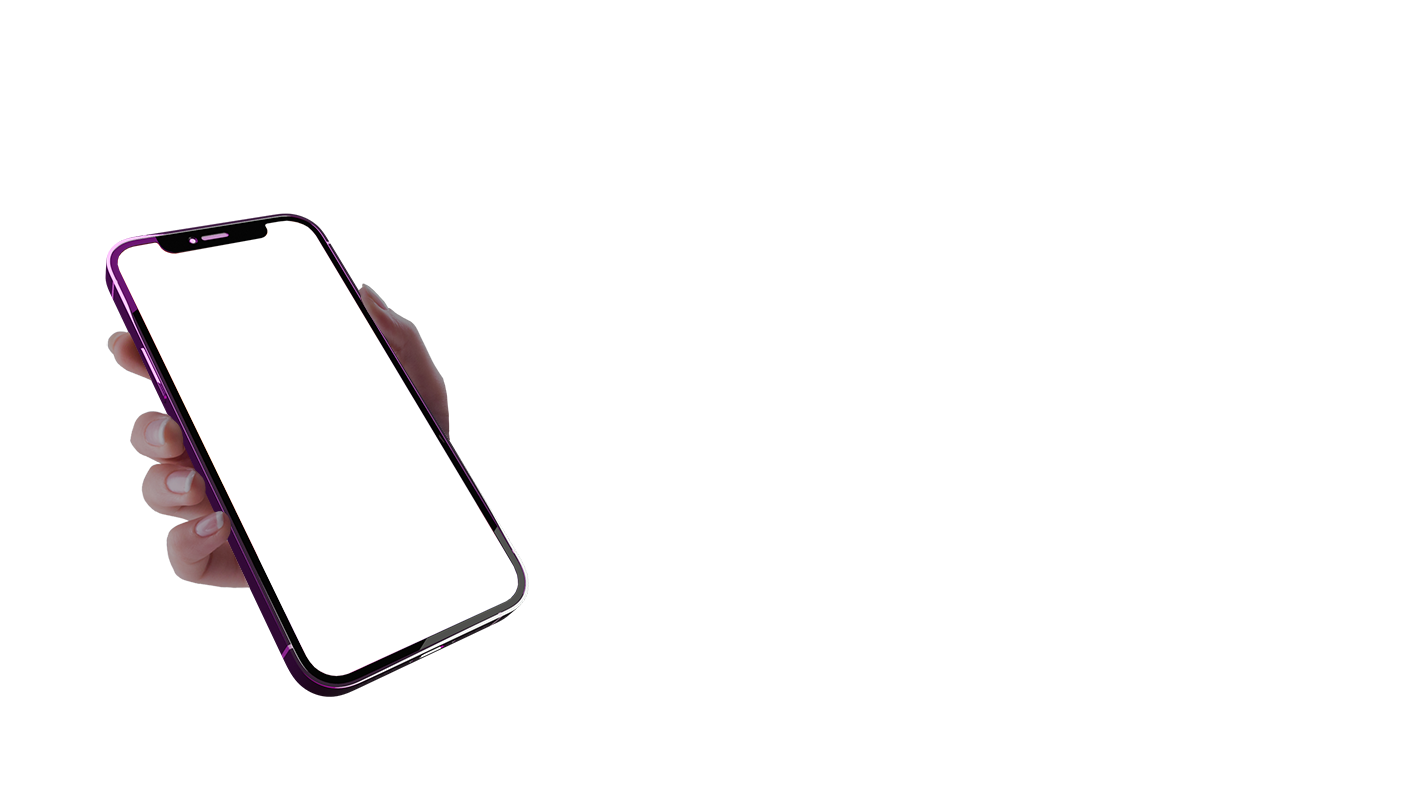
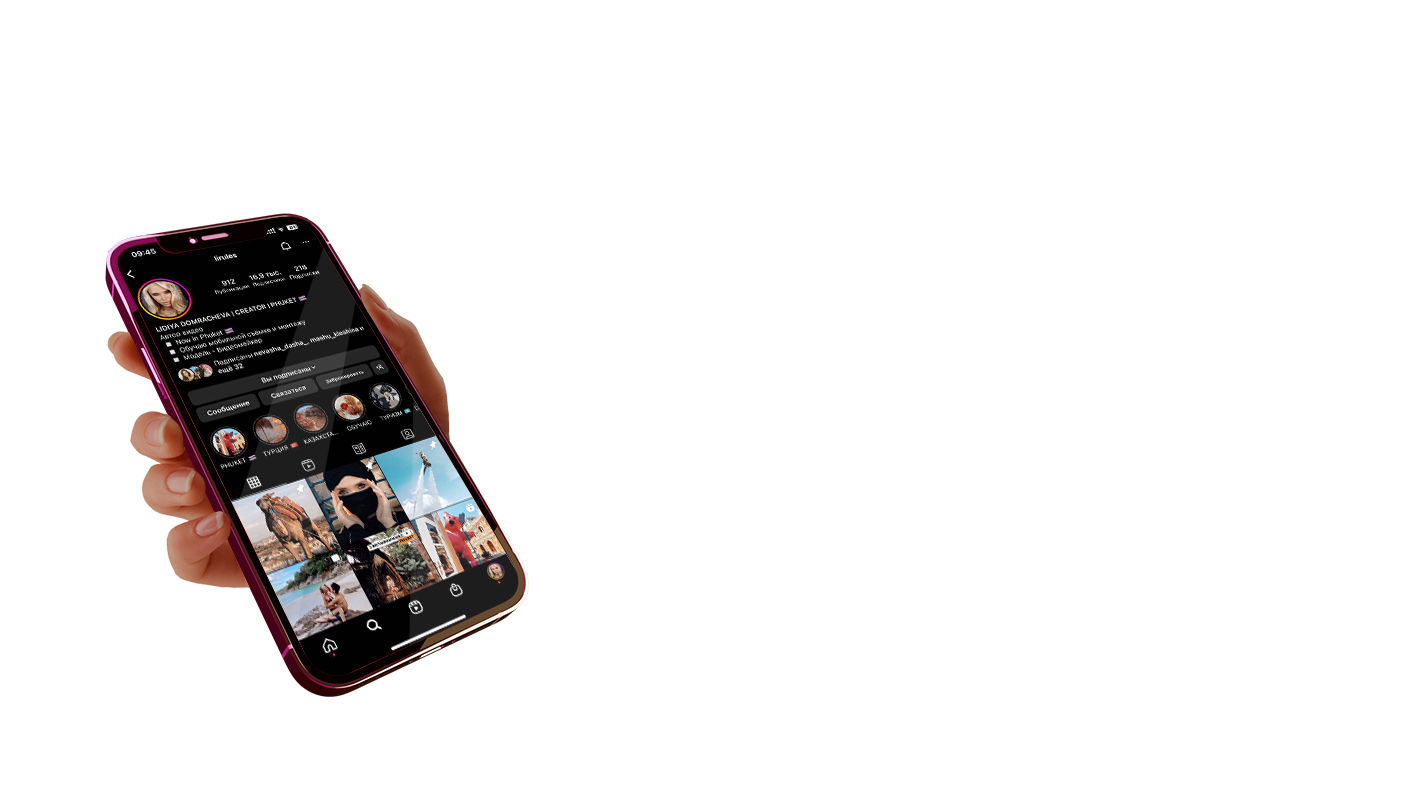
edit

Changed region(s): [[0.0619, 0.25, 0.3713, 0.875]]

diff --git a/src/pages/landing/header/parallax/parallaxItems.ts b/src/pages/landing/header/parallax/parallaxItems.ts
@@ -4,7 +4,7 @@ import lensM from '@images/landing/lens-m.webp';
 import lensVB from '@images/landing/lens-wb.webp';
 import lirules from '@images/landing/lirules.webp';
 import mobileHeader2 from '@images/landing/mobileHeader3.png';
-import phone from '@images/landing/phone2.webp';
+import phone from '@images/landing/phone.png';
 import balloons from '@images/landing/sphere.webp';
 import cn from 'classnames';
 

diff --git a/assets/styles/styles.scss b/assets/styles/styles.scss
@@ -4,6 +4,10 @@ body {
   padding: 0;
   margin: 0;
   background: $black;
+
+  @include respond(md) {
+    background: black;
+  }
 }
 
 * {
